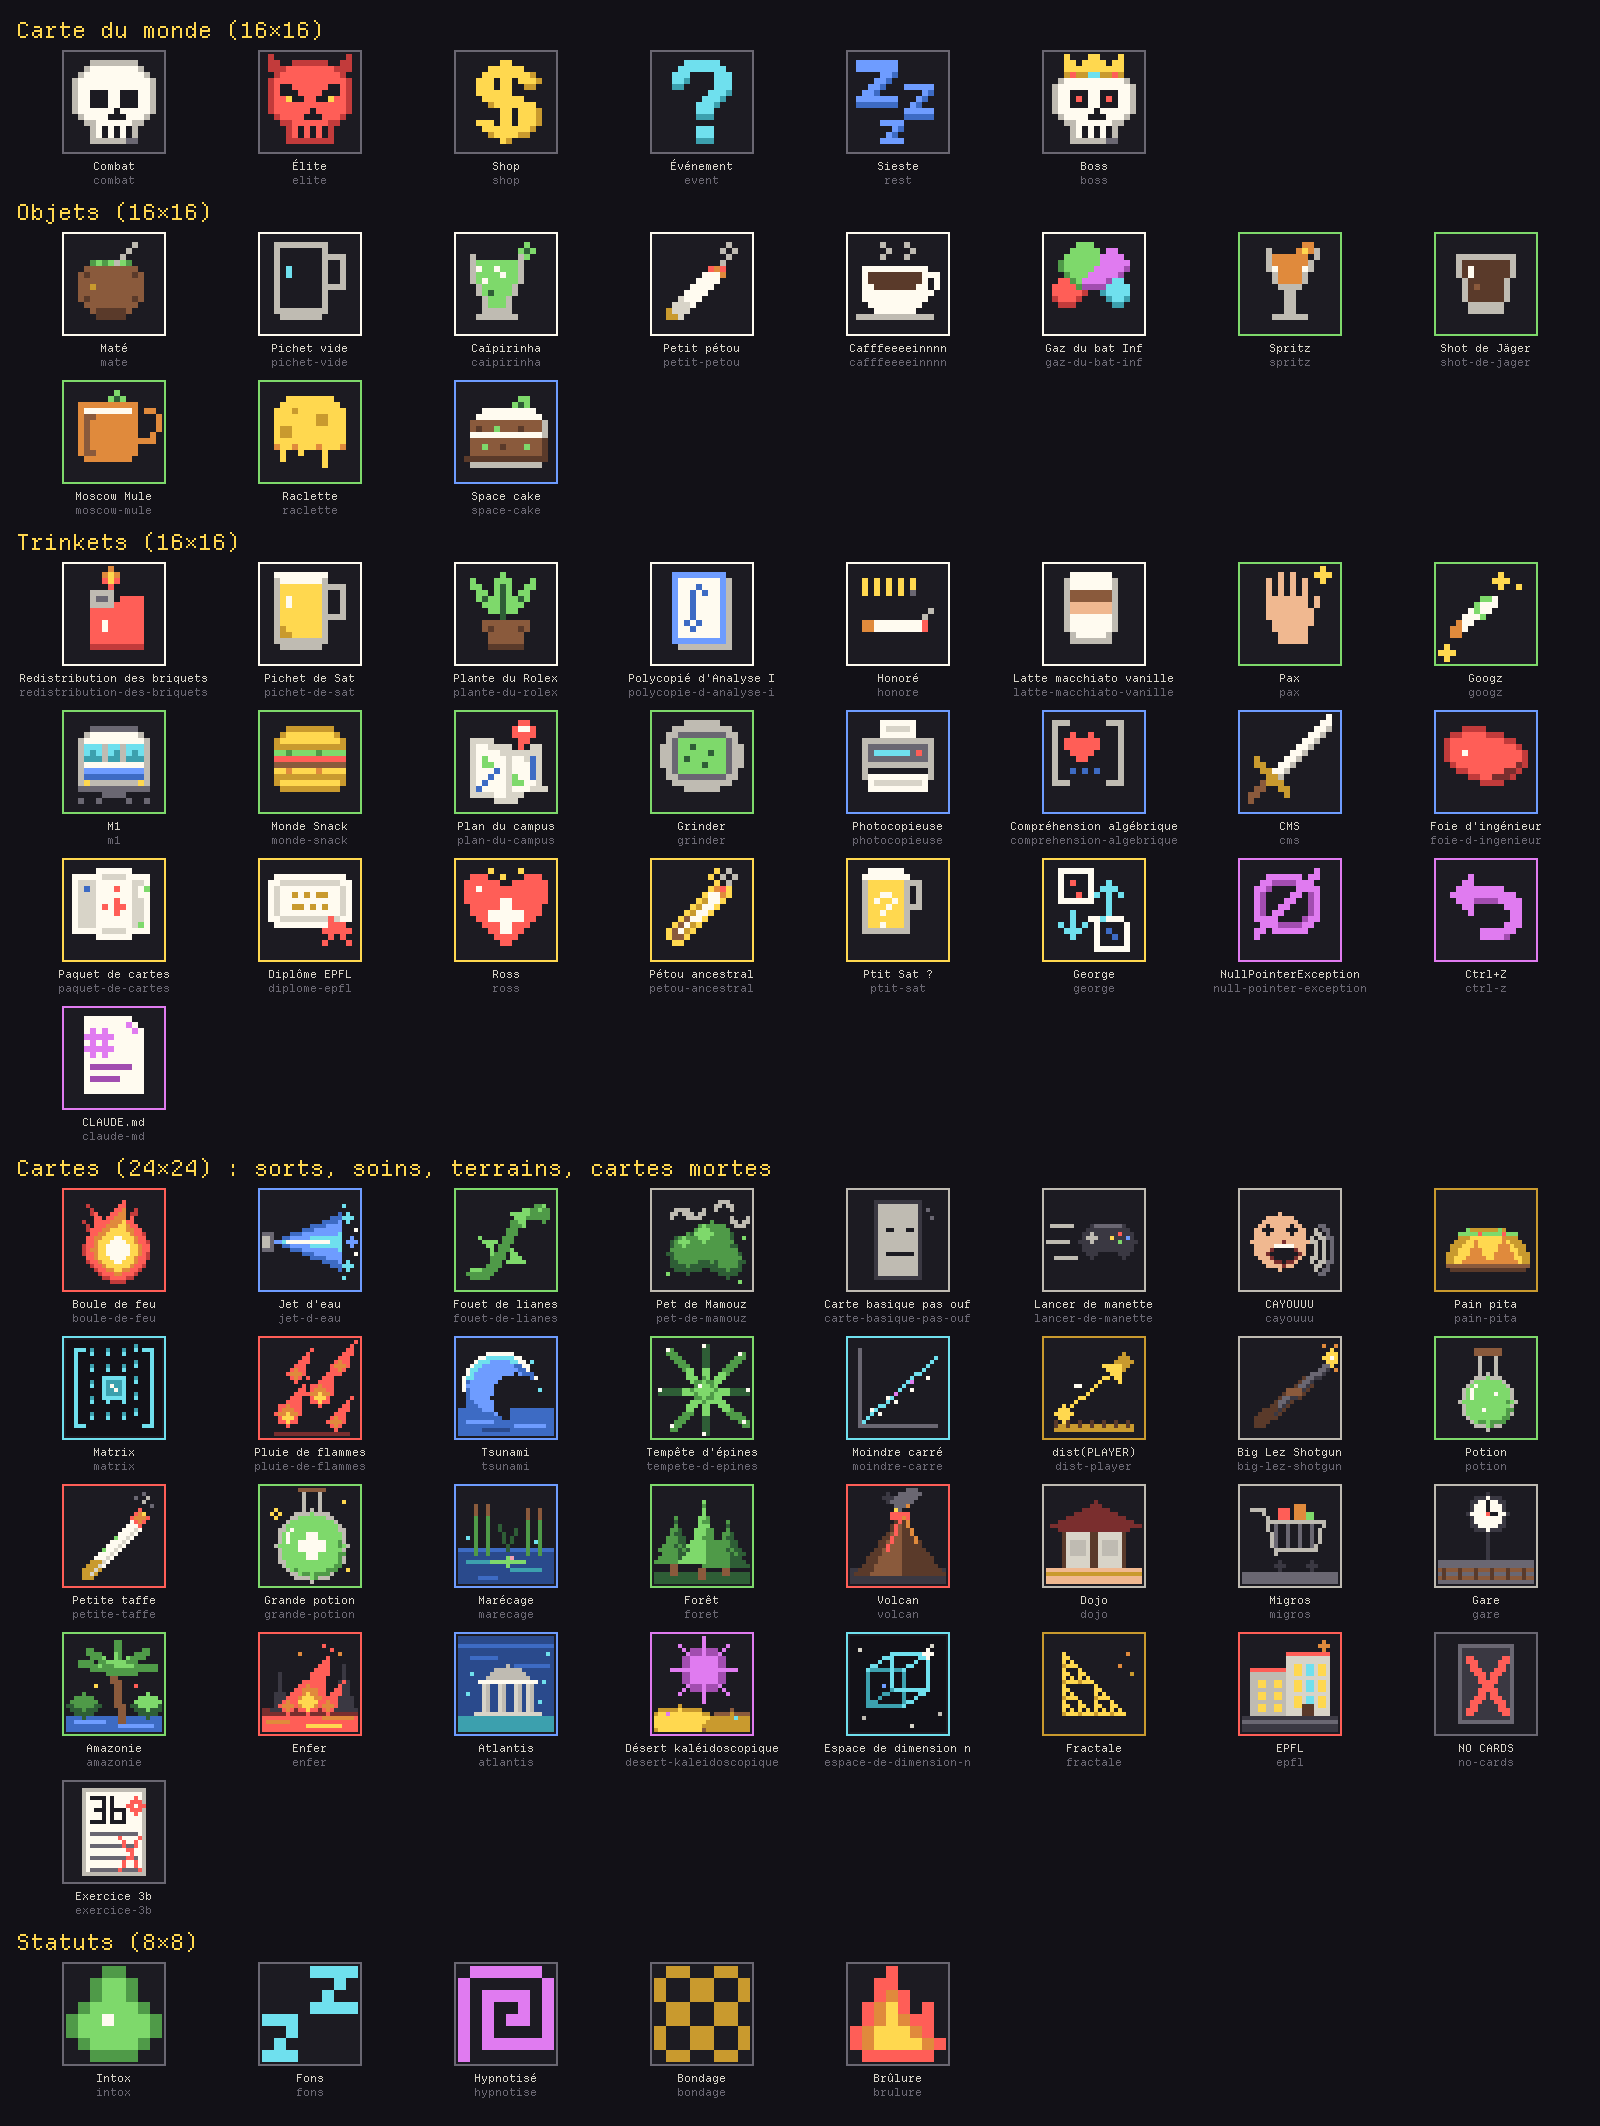
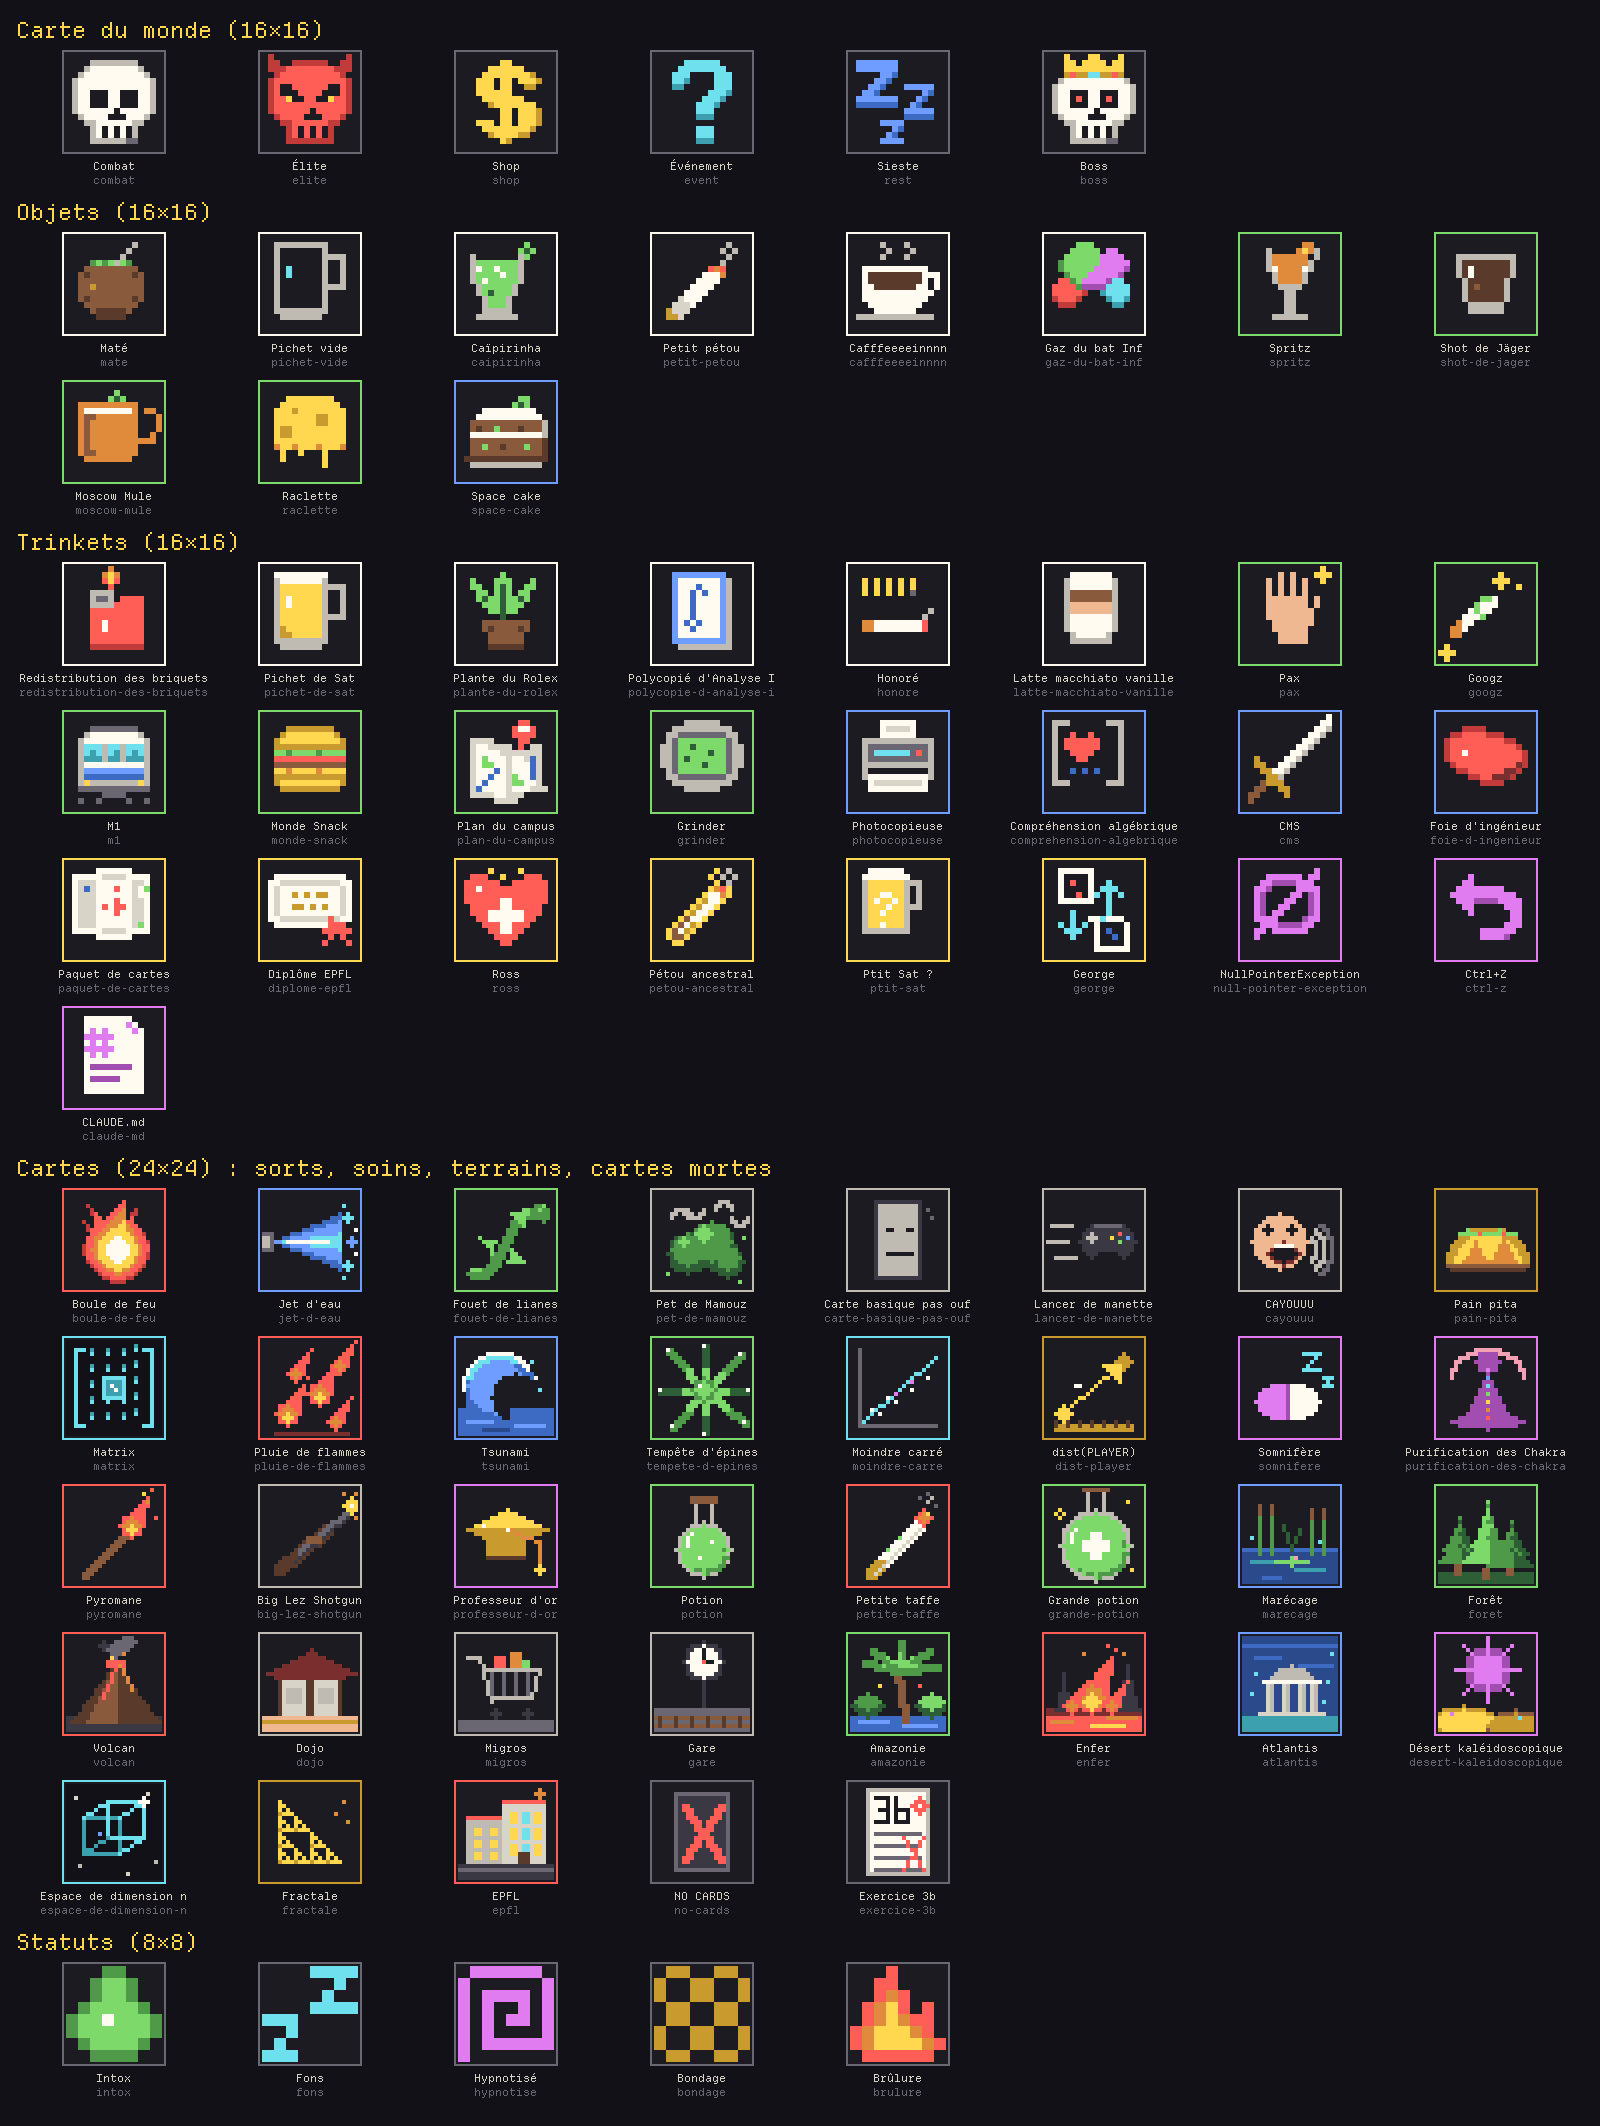
Ajoute les nouvelles cartes, lot 2
- Purification des Chakra (spirituel, Rare) : aucun dégât, l'adversaire
  est hypnotisé (tes attaques ×2 à ton prochain tour).
- Professeur d'or (spirituel, Légendaire) : 35 dégâts non multipliés,
  puis l'adversaire est hypnotisé 5 tours.
- Pyromane (feu, Rare) : 15 dégâts, ×2 si l'adversaire brûle.
- Somnifère (spirituel, Peu commun) : aucun dégât, Fons 1 tour à
  l'adversaire.

Ébauches d'illustrations dans cards.lua, ajoutées à la planche.

diff --git a/src/test/java/cardistry/core/NewCardsTest.java b/src/test/java/cardistry/core/NewCardsTest.java
@@ -127,4 +127,76 @@ class NewCardsTest {
         play();
         assertEquals(42 - 15, enemy.hp());
     }
+
+    // --- Lot 2 ---
+
+    private static Card spell(double damage) {
+        return new cardistry.model.card.SpellCard("Coup", Element.NEUTRAL, damage, Rarity.COMMON);
+    }
+
+    @Test
+    void purificationDesChakraAucunDegatPuisAttaquesX2AuProchainTour() {
+        setUp(100, CardPool.purificationDesChakra(), spell(10), spell(10));
+        play();
+        assertEquals(100, enemy.hp());
+        engine.startTurn();
+        play();
+        assertEquals(80, enemy.hp(), "hypnotisé : ×2");
+        engine.startTurn();
+        play();
+        assertEquals(70, enemy.hp(), "un tour seulement");
+        assertEquals(Element.SPIRIT, CardPool.purificationDesChakra().element());
+        assertEquals(Rarity.RARE, CardPool.purificationDesChakra().rarity());
+    }
+
+    @Test
+    void professeurDOrTrenteCinqNonMultipliesPuisHypnoseCinqTours() {
+        Stats stats = new Stats();
+        stats.add(StatModifier.percent(StatType.SPIRIT_DAMAGE, 1.0, "test"));
+        Card[] hand = {CardPool.professeurDOr(), spell(1), spell(1), spell(1), spell(1), spell(1), spell(1)};
+        setUp(1000, 1, stats, hand);
+        play();
+        assertEquals(1000 - 35, enemy.hp(), "ni l'élément, ni les stats, ni sa propre hypnose");
+        int hp = enemy.hp();
+        for (int turn = 1; turn <= 5; turn++) {
+            engine.startTurn();
+            play();
+            assertEquals(hp - 2, enemy.hp(), "tour " + turn + " : ×2");
+            hp = enemy.hp();
+        }
+        engine.startTurn();
+        play();
+        assertEquals(hp - 1, enemy.hp(), "fini après 5 tours");
+        assertEquals(Rarity.LEGENDARY, CardPool.professeurDOr().rarity());
+    }
+
+    @Test
+    void pyromaneQuinzeOuTrenteSiLAdversaireBrule() {
+        setUp(100, CardPool.pyromane());
+        play();
+        assertEquals(85, enemy.hp());
+        setUp(100, CardPool.pyromane());
+        state.statuses(cardistry.core.status.StatusTarget.ENEMY).apply(cardistry.core.status.StatusType.BURN, 3,
+                cardistry.core.status.StatusTarget.PLAYER);
+        play();
+        assertEquals(100 - 30 - 4, enemy.hp(), "30, puis 4 de Brûlure au début de son tour");
+        assertEquals(Element.FIRE, CardPool.pyromane().element());
+        assertEquals(Rarity.RARE, CardPool.pyromane().rarity());
+    }
+
+    @Test
+    void somnifereEndortLAdversaireUnTour() {
+        enemy = new Enemy("Cible", Element.NEUTRAL, 100, 10);
+        state = new GameState(new Player(100), List.of(enemy), new TerrainCard("Neutre", Element.NEUTRAL,
+                Rarity.COMMON), List.of(CardPool.somnifere()), new Stats());
+        engine = new CombatEngine(state, new CardPool(), new Rng(1), new EventBus(), new LootTable(List::of));
+        engine.startTurn();
+        play();
+        assertEquals(100, state.player().hp(), "endormi");
+        assertEquals(100, enemy.hp(), "aucun dégât");
+        engine.startTurn();
+        engine.submit(new Action.DrawCard());
+        assertEquals(90, state.player().hp(), "réveillé");
+        assertEquals(Rarity.UNCOMMON, CardPool.somnifere().rarity());
+    }
 }

diff --git a/src/main/java/cardistry/model/card/CardPool.java b/src/main/java/cardistry/model/card/CardPool.java
@@ -57,10 +57,14 @@ public class CardPool {
         cards.add(new SpellCard("Tempête d'épines", NATURE, 15.0, UNCOMMON));
         cards.add(moindreCarre());
         cards.add(distPlayer());
+        cards.add(somnifere());
 
         //RARE
+        cards.add(purificationDesChakra());
+        cards.add(pyromane());
         //LEGENDARY
         cards.add(new SpellCard("Big Lez Shotgun", NEUTRAL, 80, LEGENDARY));
+        cards.add(professeurDOr());
 
 
         
@@ -214,6 +218,39 @@ public class CardPool {
     public static SpellCard distPlayer() {
         return new SpellCard("dist(PLAYER)", GEOMETRIC, DIST_PLAYER_DAMAGE, UNCOMMON).withDamageRule(
                 "10 + étages", ctx -> DIST_PLAYER_DAMAGE + ctx.floorsTraveled());
+    }
+
+    /** Purification des Chakra : aucun dégât, l'adversaire est hypnotisé pour ton prochain tour. */
+    public static SpellCard purificationDesChakra() {
+        return new SpellCard("Purification des Chakra", SPIRIT, 0, RARE).withPower(
+                "hypnotise l'adversaire (tes attaques ×2 à ton prochain tour)",
+                ctx -> ctx.applyStatus(StatusTarget.ENEMY, StatusType.HYPNOTIZED, 1, 1));
+    }
+
+    public static final double PROFESSEUR_D_OR_DAMAGE = 35;
+    public static final int PROFESSEUR_D_OR_HYPNOSIS = 5;
+
+    /** Professeur d'or : 35 dégâts non multipliés, puis l'adversaire est hypnotisé 5 tours. */
+    public static SpellCard professeurDOr() {
+        return new SpellCard("Professeur d'or", SPIRIT, PROFESSEUR_D_OR_DAMAGE, LEGENDARY).unmultiplied().withPower(
+                "hypnotise l'adversaire pendant " + PROFESSEUR_D_OR_HYPNOSIS + " tours",
+                ctx -> ctx.applyStatus(StatusTarget.ENEMY, StatusType.HYPNOTIZED, 1, PROFESSEUR_D_OR_HYPNOSIS));
+    }
+
+    public static final double PYROMANE_DAMAGE = 15;
+
+    /** Pyromane : 15 dégâts feu, ×2 si l'adversaire brûle. */
+    public static SpellCard pyromane() {
+        return new SpellCard("Pyromane", FIRE, PYROMANE_DAMAGE, RARE).withDamageRule("15 / 30",
+                ctx -> ctx.state().statuses(StatusTarget.ENEMY).has(StatusType.BURN)
+                        ? 2 * PYROMANE_DAMAGE : PYROMANE_DAMAGE)
+                .withPower("×2 si l'adversaire brûle", ctx -> { });
+    }
+
+    /** Somnifère : aucun dégât, l'adversaire s'endort (Fons 1 tour). */
+    public static SpellCard somnifere() {
+        return new SpellCard("Somnifère", SPIRIT, 0, UNCOMMON).withPower("endort l'adversaire (Fons 1 tour)",
+                ctx -> ctx.applyStatus(StatusTarget.ENEMY, StatusType.FONS, 1, 1));
     }
 
     /** Tours passés à l'EPFL avant le retour automatique au Dojo. */
